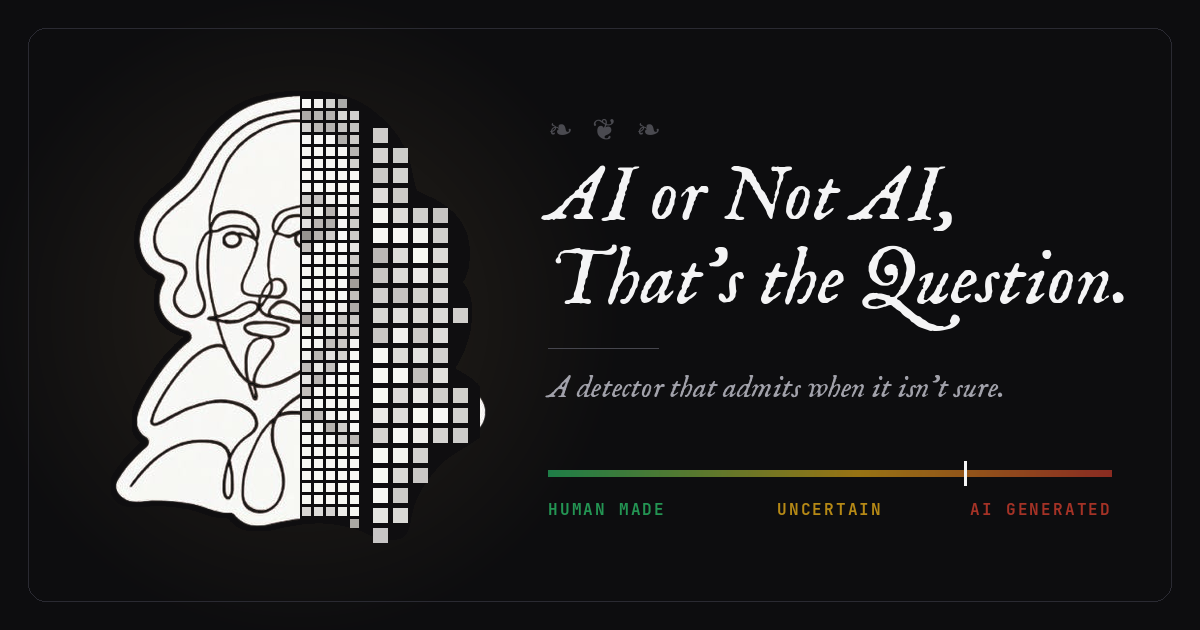
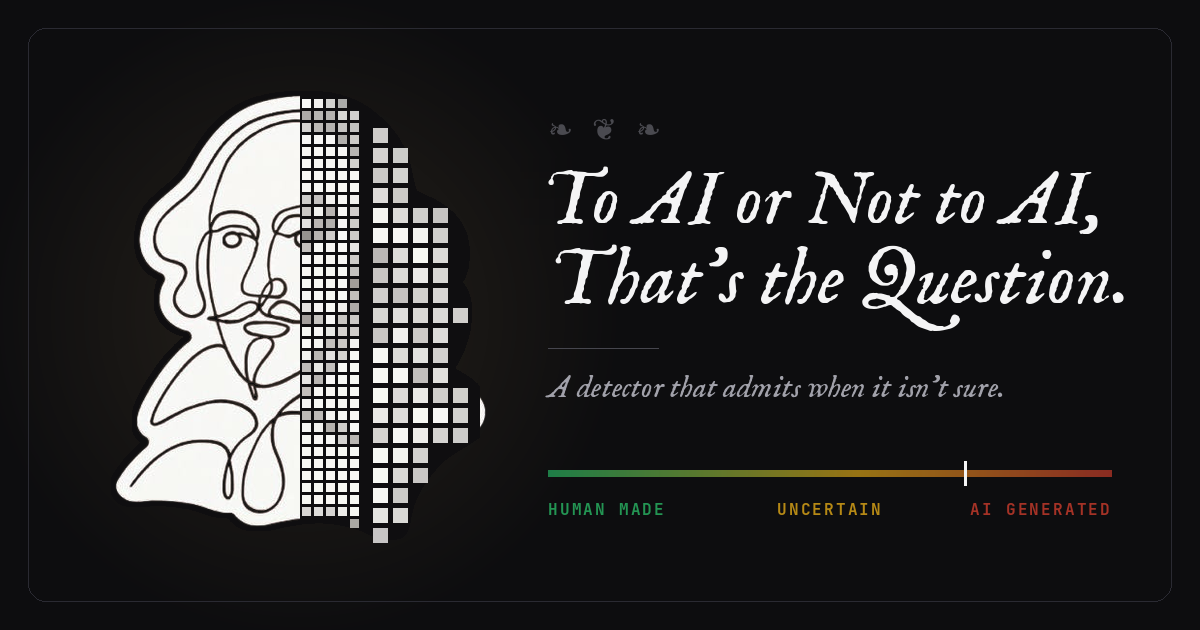
chore: rename the visible brand to To AI or Not to AI

Changed region(s): [[0.4317, 0.2413, 0.925, 0.3921]]

diff --git a/frontend/index.html b/frontend/index.html
@@ -4,14 +4,14 @@
 <head>
   <meta charset="UTF-8" />
   <meta name="viewport" content="width=device-width, initial-scale=1.0" />
-  <title>AI or Not AI, That's the Question</title>
+  <title>To AI or Not to AI, That's the Question</title>
   <meta name="description" content="An AI image detector that admits when it isn't sure." />
   <meta property="og:type" content="website" />
-  <meta property="og:title" content="AI or Not AI, That's the Question" />
+  <meta property="og:title" content="To AI or Not to AI, That's the Question" />
   <meta property="og:description" content="Five verdicts, a GradCAM heatmap, and an honest uncertainty zone." />
   <meta property="og:url" content="https://to-ai-or-not-to-ai.onrender.com/" />
   <meta property="og:image" content="https://to-ai-or-not-to-ai.onrender.com/static/og.png" />
-  <meta property="og:image:alt" content="AI or Not AI: an image detector with an honest uncertainty zone" />
+  <meta property="og:image:alt" content="To AI or Not to AI: an image detector with an honest uncertainty zone" />
   <meta name="twitter:card" content="summary_large_image" />
   <meta name="twitter:image" content="https://to-ai-or-not-to-ai.onrender.com/static/og.png" />
   <link rel="icon" href="/static/favicon.png?v=2" />
@@ -1942,7 +1942,7 @@
               ))}
             </div>
           )}
-          <div className="anno-domini">AI or Not AI · Anno Domini MMXXVI · v II.0.0</div>
+          <div className="anno-domini">To AI or Not to AI · Anno Domini MMXXVI · v II.0.0</div>
           <div className="colophon">
             <a href="/privacy">Privacy</a>
             <span className="sep" aria-hidden="true">·</span>
@@ -2124,12 +2124,12 @@
       }, [server]);
 
       useEffect(() => {                                       // console easter egg, once
-        console.log('%c\n  Sonnet XVIII (Adapted)\n\n  Shall I compare thee to a human hand?\n  Thou art more doubtful and more generate.\n  Rough algorithms do shake the darling buds of May,\n  And summer\'s lease hath all too short a render.\n\n  - AI or Not AI, v2.0.0\n',
+        console.log('%c\n  Sonnet XVIII (Adapted)\n\n  Shall I compare thee to a human hand?\n  Thou art more doubtful and more generate.\n  Rough algorithms do shake the darling buds of May,\n  And summer\'s lease hath all too short a render.\n\n  - To AI or Not to AI, v2.0.0\n',
           'font-style:italic;color:#a1a1aa;font-family:serif;font-size:13px;');
       }, []);
       useEffect(() => { document.body.classList.toggle('first-folio', folio); local.set('aon_folio', folio ? '1' : '0'); }, [folio]);
       useEffect(() => {
-        document.title = result ? `${LABELS[result.prediction] || result.prediction} - AI or Not AI` : "AI or Not AI, That's the Question";
+        document.title = result ? `${LABELS[result.prediction] || result.prediction} - To AI or Not to AI` : "To AI or Not to AI, That's the Question";
       }, [result]);
       useEffect(() => { if (error) scrollToTool('center'); }, [error]);
       useEffect(() => () => { if (preview) URL.revokeObjectURL(preview); }, [preview]);
@@ -2138,7 +2138,7 @@
       return (
         <>
           <nav className="topbar">
-            <button className="wordmark" onClick={home}>AI or Not AI</button>
+            <button className="wordmark" onClick={home}>To AI or Not to AI</button>
             <div className="seg" role="group" aria-label="Analysis mode">
               <button className={`seg-btn ${mode === 'predict' ? 'on' : ''}`} aria-pressed={mode === 'predict'}
                 title="Instant result, classification only (F)" onClick={() => chooseMode('predict')}>Fast</button>
@@ -2169,7 +2169,7 @@
                   title="The Chandos Portrait, c.1610. Attributed to John Taylor. Authenticity: disputed."
                   onError={(e) => { e.target.style.display = 'none'; }} />
                 <div className="ornament" aria-hidden="true">❧  ❦  ❧</div>
-                <h1 className="playbill-quote">"AI or Not AI, That's the Question."</h1>
+                <h1 className="playbill-quote">"To AI or Not to AI, That's the Question."</h1>
                 <div className="playbill-attribution">after Hamlet, Act III, Scene I</div>
                 <p className="playbill-plain">Upload an image. The model says AI-made, human-made, or honestly not sure, and shows you where it looked.</p>
                 <div className="ornament" style={{ fontSize: 11, letterSpacing: '.4em' }} aria-hidden="true">══════════════════</div>

diff --git a/frontend/privacy.html b/frontend/privacy.html
@@ -4,8 +4,8 @@
 <head>
     <meta charset="UTF-8" />
     <meta name="viewport" content="width=device-width, initial-scale=1.0" />
-    <title>Privacy · AI or Not AI</title>
-    <meta name="description" content="What AI or Not AI sends, stores and never does." />
+    <title>Privacy · To AI or Not to AI</title>
+    <meta name="description" content="What To AI or Not to AI sends, stores and never does." />
     <link rel="icon" href="/static/favicon.png" />
     <link
         href="https://fonts.googleapis.com/css2?family=IM+Fell+English:ital@0;1&family=JetBrains+Mono:wght@400;600&display=swap"
@@ -156,7 +156,7 @@
         <h2>Changes</h2>
         <p>If this policy changes, the date at the top changes with it.</p>
 
-        <footer><a href="/">← Back to AI or Not AI</a></footer>
+        <footer><a href="/">← Back to To AI or Not to AI</a></footer>
     </main>
 </body>
 

diff --git a/extension/results.html b/extension/results.html
@@ -4,7 +4,7 @@
 <head>
     <meta charset="UTF-8" />
     <meta name="viewport" content="width=device-width, initial-scale=1.0" />
-    <title>AI or Not AI: Verdict</title>
+    <title>To AI or Not to AI: Verdict</title>
     <link rel="preconnect" href="https://fonts.googleapis.com" />
     <link rel="preconnect" href="https://fonts.gstatic.com" crossorigin />
     <link
@@ -424,7 +424,7 @@
 </head>
 
 <body>
-    <div class="topbar"><span class="wordmark">AI or Not AI</span><span class="mode-tag" id="modeTag"></span></div>
+    <div class="topbar"><span class="wordmark">To AI or Not to AI</span><span class="mode-tag" id="modeTag"></span></div>
 
     <div id="view-loading" role="status" aria-live="polite">
         <div class="hourglass" aria-hidden="true">⌛</div>

diff --git a/extension/popup.html b/extension/popup.html
@@ -2,7 +2,7 @@
 <html lang="en">
 <head>
   <meta charset="UTF-8" />
-  <title>AI or Not AI</title>
+  <title>To AI or Not to AI</title>
   <link rel="preconnect" href="https://fonts.googleapis.com" />
   <link rel="preconnect" href="https://fonts.gstatic.com" crossorigin />
   <link href="https://fonts.googleapis.com/css2?family=IM+Fell+English:ital@0;1&family=JetBrains+Mono:wght@400;500;600;700&display=swap" rel="stylesheet" />
@@ -89,7 +89,7 @@
 </head>
 <body>
   <div class="header">
-    <span class="wordmark">AI or Not AI</span>
+    <span class="wordmark">To AI or Not to AI</span>
     <div class="conn-dot" id="connDot" role="img" aria-label="Connection status"></div>
   </div>
 

diff --git a/extension/background.js b/extension/background.js
@@ -20,7 +20,7 @@ const UPLOAD_TYPES = ['image/jpeg', 'image/png'];
 
 chrome.runtime.onInstalled.addListener(() => {
   chrome.contextMenus.removeAll(() =>
-    chrome.contextMenus.create({ id: MENU_ID, title: 'Check with AI or Not AI', contexts: ['image'] }));
+    chrome.contextMenus.create({ id: MENU_ID, title: 'Check with To AI or Not to AI', contexts: ['image'] }));
   syncPassiveScript();
 });
 chrome.runtime.onStartup.addListener(syncPassiveScript);

diff --git a/AI_SECURITY.md b/AI_SECURITY.md
@@ -1,6 +1,6 @@
 # AI security
 
-What could go wrong with AI or Not AI, how likely it is, what I've done about it, and what's still open.
+What could go wrong with To AI or Not to AI, how likely it is, what I've done about it, and what's still open.
 
 I wrote this to practise the way the ISO standards think about risk, on a real project instead of a textbook example. The process comes from **ISO/IEC 23894** (AI risk management, built on ISO 31000): understand the context, find the risks, score them, decide what to do, and be honest about what's left. The controls are mapped to **ISO/IEC 27001:2022 Annex A** for general security and to **ISO/IEC 42001** for the AI-specific parts.
 
@@ -10,7 +10,7 @@ I wrote this to practise the way the ISO standards think about risk, on a real p
 
 ## What we're protecting
 
-AI or Not AI is a website, a browser extension and an API that guess whether an image was made by AI. A small model (MobileNetV3-Small) gives one of five verdicts: human made, AI generated, or one of three shades of "honestly not sure". Each comes with a confidence score and, if you want, a heatmap of where it looked. People can vote on whether it got it right.
+To AI or Not to AI is a website, a browser extension and an API that guess whether an image was made by AI. A small model (MobileNetV3-Small) gives one of five verdicts: human made, AI generated, or one of three shades of "honestly not sure". Each comes with a confidence score and, if you want, a heatmap of where it looked. People can vote on whether it got it right.
 
 It runs on free tiers: the API on Render (one small instance that naps when idle), the database on Neon, Redis on Upstash. Training happens by hand on Kaggle, from a fixed commit of this repo.
 
@@ -185,7 +185,7 @@ This is the one I care about most, and it isn't technical at all. Someone runs a
 | A4 | R6 | Log shortened or hashed filenames; delete logs and votes older than 90 days | To do |
 | A5 | R3 | Make the drift job notify me instead of attempting training; document how retraining really works | To do |
 | A6 | R7, R9 | Turn on GitHub secret scanning, push protection and Dependabot | **Done** |
-| A7 | R11 | Show "a probability, not proof" with every verdict | To do |
+| A7 | R11 | Show "a probability, not proof" with every verdict | **Done** |
 | A8 | R10 | Retrain with newer generators each release, keeping one held out | Ongoing |
 
 Every risk and action here is owned by me.

diff --git a/docs/ENGINEERING-DECISIONS.md b/docs/ENGINEERING-DECISIONS.md
@@ -2,7 +2,7 @@
 
 Every project has a version of its history where everything went to plan. This isn't that version.
 
-These are the bugs, dead ends and "how did this ever work" moments from building AI or Not AI, written down while I still remember how much each one hurt. Each one comes with what broke, why, how I found it, and what I'd tell my past self.
+These are the bugs, dead ends and "how did this ever work" moments from building To AI or Not to AI, written down while I still remember how much each one hurt. Each one comes with what broke, why, how I found it, and what I'd tell my past self.
 
 ---
 
